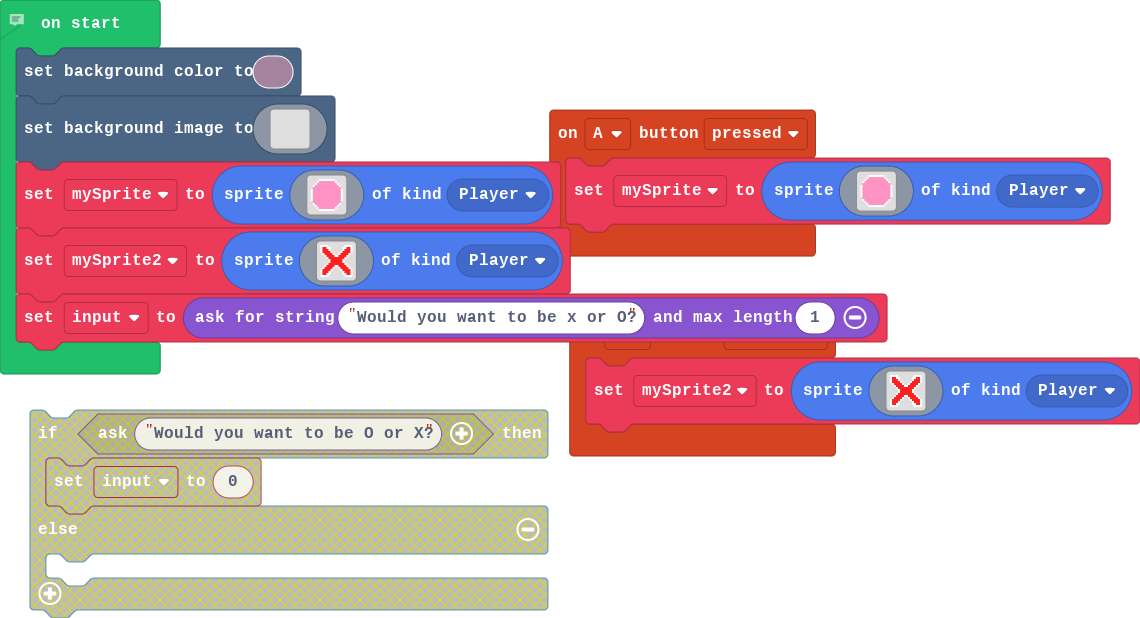
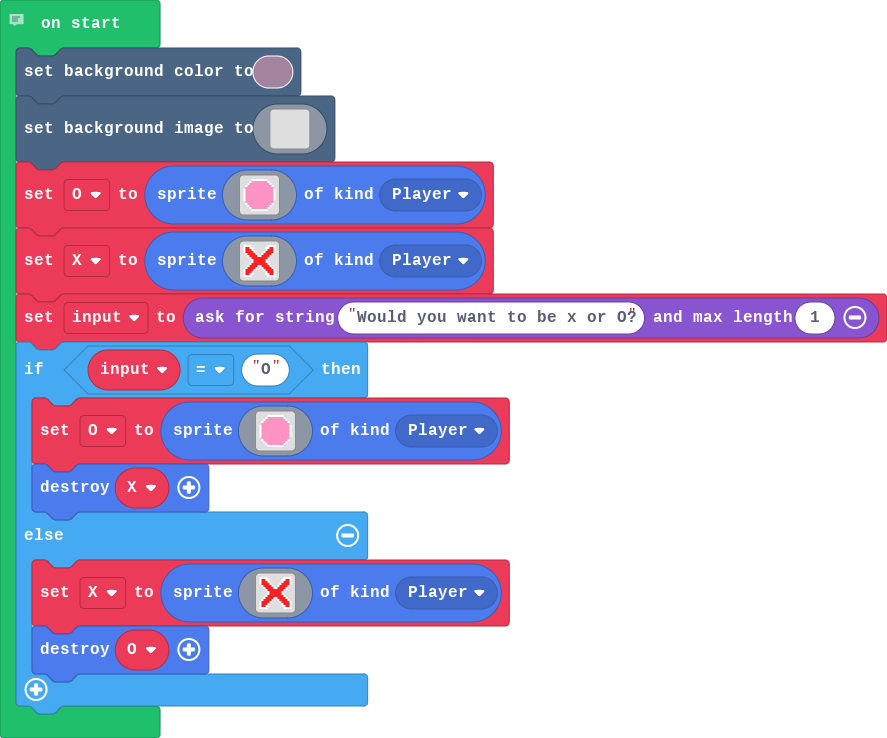
Update pxt.json, main.blocks, main.ts, extension.json

diff --git a/main.ts b/main.ts
@@ -1,46 +1,4 @@
-controller.B.onEvent(ControllerButtonEvent.Pressed, function () {
-    mySprite2 = sprites.create(img`
-        1 1 1 1 . . . . . . . . 1 1 1 1 
-        1 2 2 1 1 . . . . . . 1 1 2 2 1 
-        1 2 2 2 1 . . . . . . 1 2 2 2 1 
-        1 2 2 2 2 1 . . . . 1 2 2 2 2 1 
-        . 1 2 2 2 2 1 . . 1 2 2 2 2 1 . 
-        . . 1 2 2 2 2 1 1 2 2 2 2 1 . . 
-        . . . 1 2 2 2 2 2 2 2 2 1 . . . 
-        . . . . 1 2 2 2 2 2 2 1 . . . . 
-        . . . . 1 2 2 2 2 2 2 1 . . . . 
-        . . . 1 2 2 2 2 2 2 2 2 1 . . . 
-        . . 1 2 2 2 2 1 1 2 2 2 2 1 . . 
-        . 1 2 2 2 2 1 . . 1 2 2 2 2 1 . 
-        1 2 2 2 2 1 . . . . 1 2 2 2 2 1 
-        1 2 2 2 1 . . . . . . 1 2 2 2 1 
-        1 2 2 1 1 . . . . . . 1 1 2 2 1 
-        1 1 1 1 . . . . . . . . 1 1 1 1 
-        `, SpriteKind.Player)
-})
-controller.A.onEvent(ControllerButtonEvent.Pressed, function () {
-    mySprite = sprites.create(img`
-        . . . . 1 1 1 1 1 1 1 1 . . . . 
-        . . . 1 3 3 3 3 3 3 3 3 1 . . . 
-        . . 1 3 3 3 3 3 3 3 3 3 3 1 . . 
-        . 1 3 3 3 3 3 3 3 3 3 3 3 3 1 . 
-        . 3 3 3 3 3 3 3 3 3 3 3 3 3 3 . 
-        1 3 3 3 3 3 3 3 3 3 3 3 3 3 3 1 
-        1 3 3 3 3 3 3 3 3 3 3 3 3 3 3 1 
-        1 3 3 3 3 3 3 3 3 3 3 3 3 3 3 1 
-        1 3 3 3 3 3 3 3 3 3 3 3 3 3 3 1 
-        1 3 3 3 3 3 3 3 3 3 3 3 3 3 3 1 
-        1 3 3 3 3 3 3 3 3 3 3 3 3 3 3 1 
-        . 3 3 3 3 3 3 3 3 3 3 3 3 3 3 . 
-        . 1 3 3 3 3 3 3 3 3 3 3 3 3 1 . 
-        . . 1 3 3 3 3 3 3 3 3 3 3 1 . . 
-        . . . 1 3 3 3 3 3 3 3 3 1 . . . 
-        . . . . 1 1 1 1 1 1 1 1 . . . . 
-        `, SpriteKind.Player)
-})
 // Don't forget to comment your code as you work!
-let mySprite2: Sprite = null
-let mySprite: Sprite = null
 scene.setBackgroundColor(11)
 scene.setBackgroundImage(img`
     ................................................................................................................................................................
@@ -164,7 +122,7 @@ scene.setBackgroundImage(img`
     ................................................................................................................................................................
     ................................................................................................................................................................
     `)
-mySprite = sprites.create(img`
+let O = sprites.create(img`
     . . . . 1 1 1 1 1 1 1 1 . . . . 
     . . . 1 3 3 3 3 3 3 3 3 1 . . . 
     . . 1 3 3 3 3 3 3 3 3 3 3 1 . . 
@@ -182,7 +140,7 @@ mySprite = sprites.create(img`
     . . . 1 3 3 3 3 3 3 3 3 1 . . . 
     . . . . 1 1 1 1 1 1 1 1 . . . . 
     `, SpriteKind.Player)
-mySprite2 = sprites.create(img`
+let X = sprites.create(img`
     1 1 1 1 . . . . . . . . 1 1 1 1 
     1 2 2 1 1 . . . . . . 1 1 2 2 1 
     1 2 2 2 1 . . . . . . 1 2 2 2 1 
@@ -201,3 +159,44 @@ mySprite2 = sprites.create(img`
     1 1 1 1 . . . . . . . . 1 1 1 1 
     `, SpriteKind.Player)
 let input2 = game.askForString("Would you want to be x or O?", 1)
+if (input2 == "O") {
+    O = sprites.create(img`
+        . . . . 1 1 1 1 1 1 1 1 . . . . 
+        . . . 1 3 3 3 3 3 3 3 3 1 . . . 
+        . . 1 3 3 3 3 3 3 3 3 3 3 1 . . 
+        . 1 3 3 3 3 3 3 3 3 3 3 3 3 1 . 
+        . 3 3 3 3 3 3 3 3 3 3 3 3 3 3 . 
+        1 3 3 3 3 3 3 3 3 3 3 3 3 3 3 1 
+        1 3 3 3 3 3 3 3 3 3 3 3 3 3 3 1 
+        1 3 3 3 3 3 3 3 3 3 3 3 3 3 3 1 
+        1 3 3 3 3 3 3 3 3 3 3 3 3 3 3 1 
+        1 3 3 3 3 3 3 3 3 3 3 3 3 3 3 1 
+        1 3 3 3 3 3 3 3 3 3 3 3 3 3 3 1 
+        . 3 3 3 3 3 3 3 3 3 3 3 3 3 3 . 
+        . 1 3 3 3 3 3 3 3 3 3 3 3 3 1 . 
+        . . 1 3 3 3 3 3 3 3 3 3 3 1 . . 
+        . . . 1 3 3 3 3 3 3 3 3 1 . . . 
+        . . . . 1 1 1 1 1 1 1 1 . . . . 
+        `, SpriteKind.Player)
+    X.destroy()
+} else {
+    X = sprites.create(img`
+        1 1 1 1 . . . . . . . . 1 1 1 1 
+        1 2 2 1 1 . . . . . . 1 1 2 2 1 
+        1 2 2 2 1 . . . . . . 1 2 2 2 1 
+        1 2 2 2 2 1 . . . . 1 2 2 2 2 1 
+        . 1 2 2 2 2 1 . . 1 2 2 2 2 1 . 
+        . . 1 2 2 2 2 1 1 2 2 2 2 1 . . 
+        . . . 1 2 2 2 2 2 2 2 2 1 . . . 
+        . . . . 1 2 2 2 2 2 2 1 . . . . 
+        . . . . 1 2 2 2 2 2 2 1 . . . . 
+        . . . 1 2 2 2 2 2 2 2 2 1 . . . 
+        . . 1 2 2 2 2 1 1 2 2 2 2 1 . . 
+        . 1 2 2 2 2 1 . . 1 2 2 2 2 1 . 
+        1 2 2 2 2 1 . . . . 1 2 2 2 2 1 
+        1 2 2 2 1 . . . . . . 1 2 2 2 1 
+        1 2 2 1 1 . . . . . . 1 1 2 2 1 
+        1 1 1 1 . . . . . . . . 1 1 1 1 
+        `, SpriteKind.Player)
+    O.destroy()
+}
